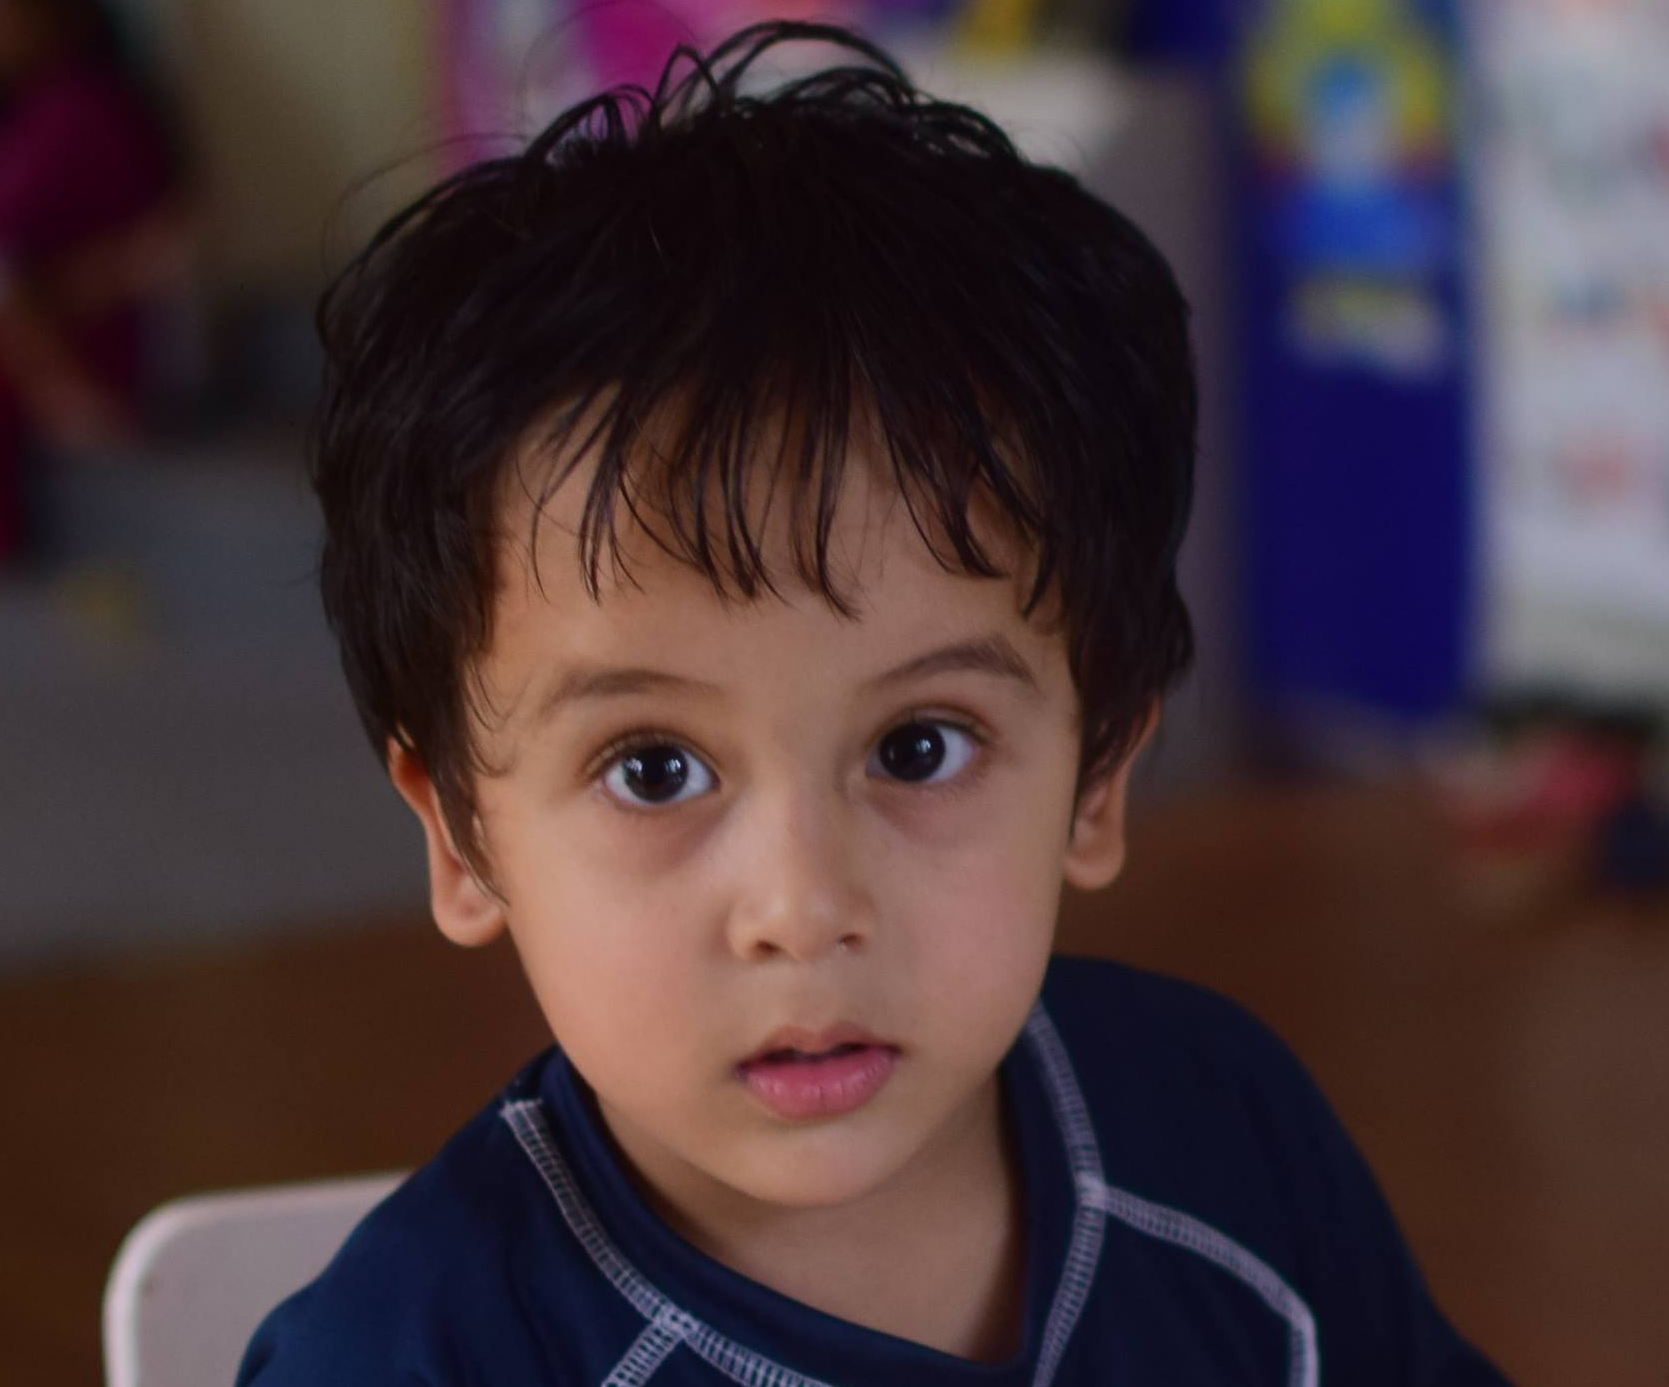
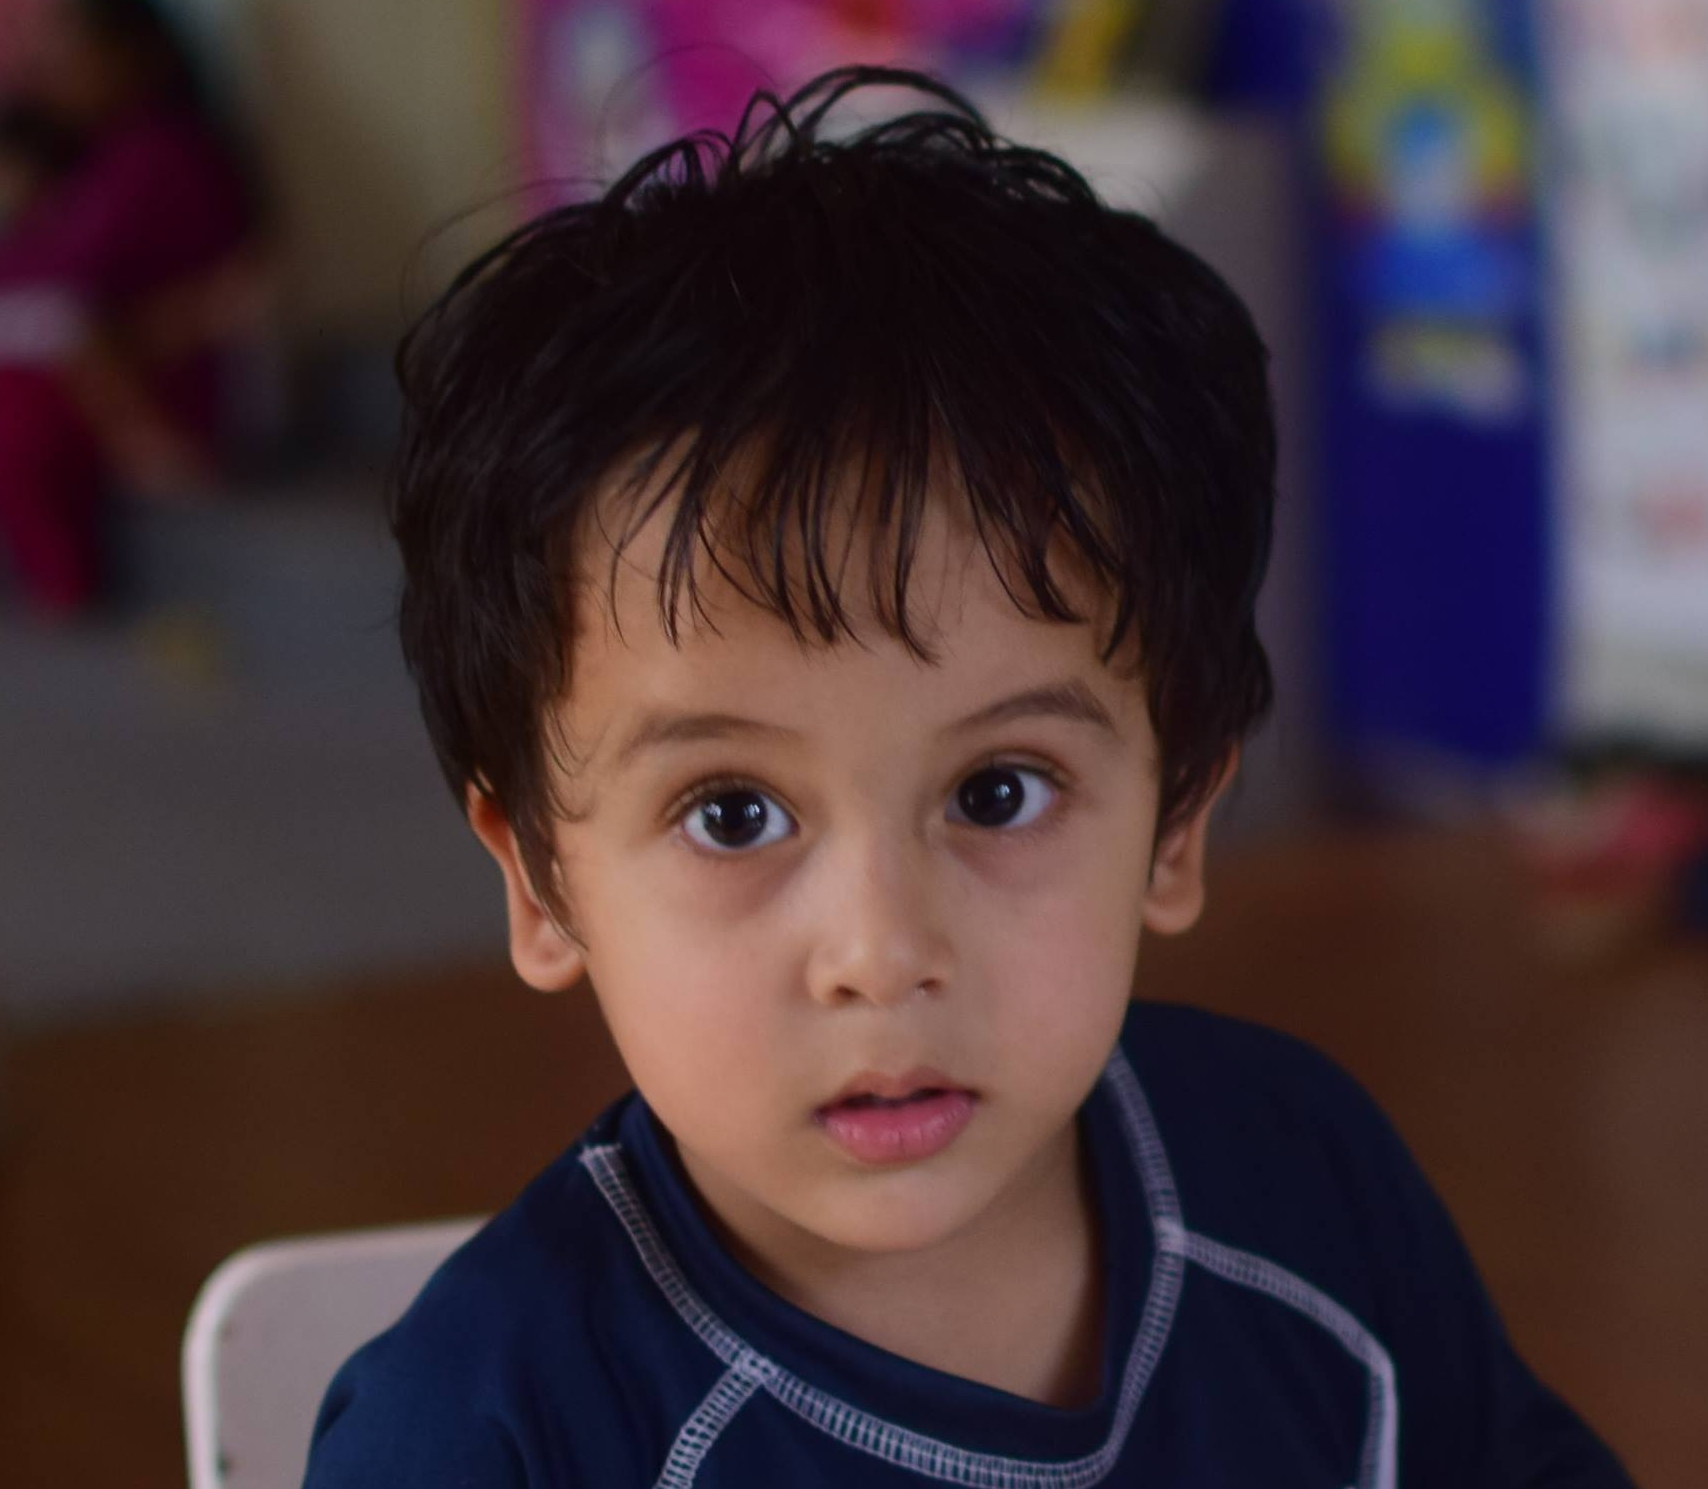
final ui..

diff --git a/parents/index.html b/parents/index.html
@@ -22,7 +22,7 @@
 
 
 
-  	<div class="card" style="margin: 5px;background-image: url(http://assets-cdn.ekantipur.com/images/the-kathmandu-post-archive/ped/2014/20140613the-new-preschool-paradigm-600x0.jpg);background-color: rgba(0,0,0,0.5)">
+  	<div class="card" style="margin: 5px;background-image: url(images/baby_playing1.jpg);background-color: rgba(0,0,0,0.5)">
 		<div class="card-body">
 
 					<div class="row" style="padding-left: 15px;; ">
